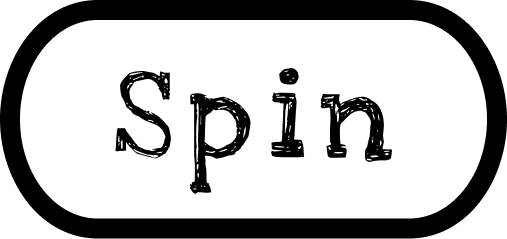
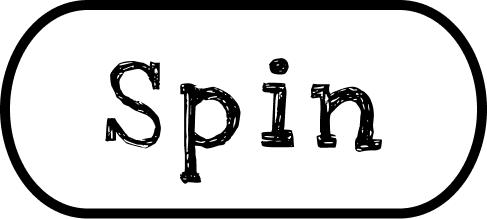
feat - proper scaling of the images depending on image size

diff --git a/src/scenes/Game.ts b/src/scenes/Game.ts
@@ -27,11 +27,12 @@ export class Game extends Phaser.Scene {
     super({ key: "Game", active: true });
   }
 
-  preload() {
+  public preload(): void {
     this.load.image("background", "assets/bg.png");
     this.load.image("spinButton", "assets/SpinButton_01.png");
     this.load.image("spinButtonPressed", "assets/SpinButton_01_Pressed.png");
 
+    
     SYMBOLS.forEach((symbol) => {
       this.load.image(symbol, `assets/symbol/${symbol}.png`);
       this.load.image(
@@ -40,7 +41,7 @@ export class Game extends Phaser.Scene {
       );
     });
   }
-  create() {
+  public create(): void {
     const { width, height } = this.cameras.main;
 
     const background = this.add.image(width / 2, height / 2, "background");
@@ -49,54 +50,7 @@ export class Game extends Phaser.Scene {
     this.createReels(width, height);
     this.createUiElements(width, height);
   }
-  private createUiElements(width: number, height: number) {
-    this.winText = this.add
-      .text(width / 2, 20, "", { fontSize: "48px", color: "#000" })
-      .setOrigin(0.5)
-      .setDepth(1000);
 
-    this.spinButton = this.add
-      .image(width / 2, height / 2, "spinButton")
-      .setInteractive({ useHandCursor: true })
-      .on("pointerdown", () => {
-        this.spinButton.setTexture("spinButtonPressed");
-      })
-      .on("pointerup", () => {
-        this.spinButton.setTexture("spinButton");
-        this.spinReels();
-      })
-      .on("pointerout", () => {
-        this.spinButton.setTexture("spinButton");
-      });
-  }
-  private createReels(width: number, height: number) {
-    const totalReelWidth =
-      REELS_COLUMNS * IMAGE_WIDTH + (REELS_COLUMNS - 1) * H_GAP;
-    const totalReelHeight =
-      REELS_ROWS * IMAGE_HEIGHT + (REELS_ROWS - 1) * V_GAP;
-    const startX = (width - totalReelWidth) / 2 + IMAGE_WIDTH / 2;
-    const startY = (height - totalReelHeight) / 2 + IMAGE_HEIGHT / 2;
-
-    for (let col = 0; col < REELS_COLUMNS; col++) {
-      const initialSymbols: string[] = [];
-      for (let row = 0; row < REELS_ROWS; row++) {
-        initialSymbols.push(getRandomWeightedSymbol());
-      }
-      const reelX = startX + col * (IMAGE_WIDTH + H_GAP);
-      const reel = new Reel(
-        this,
-        col,
-        reelX,
-        startY,
-        IMAGE_WIDTH,
-        IMAGE_HEIGHT,
-        V_GAP,
-        REELS_ROWS,
-        initialSymbols
-      );
-      this.reels.push(reel);
-    }
-  }
   private spinReels(): void {
     this.animateSpinButton(0, 500);
 
@@ -123,9 +77,62 @@ export class Game extends Phaser.Scene {
       await Promise.all(spinPromises);
 
       this.evaluateWin();
+
       this.isSpinning = false;
       this.animateSpinButton(1, 250);
     });
+  }
+  private createUiElements(width: number, height: number): void {
+    this.winText = this.add
+      .text(width / 2, 25, "", {
+        fontSize: "48px",
+        fontStyle: "bold",
+        color: "#000",
+      })
+      .setOrigin(0.5)
+      .setDepth(1000);
+
+    this.spinButton = this.add
+      .image(width / 2, height / 2, "spinButton")
+      .setInteractive({ useHandCursor: true })
+      .on("pointerdown", () => {
+        this.spinButton.setTexture("spinButtonPressed");
+      })
+      .on("pointerup", () => {
+        this.spinButton.setTexture("spinButton");
+        this.spinReels();
+      })
+      .on("pointerout", () => {
+        this.spinButton.setTexture("spinButton");
+      });
+  }
+  private createReels(width: number, height: number): void {
+    const totalReelWidth =
+      REELS_COLUMNS * IMAGE_WIDTH + (REELS_COLUMNS - 1) * H_GAP;
+    const totalReelHeight =
+      REELS_ROWS * IMAGE_HEIGHT + (REELS_ROWS - 1) * V_GAP;
+    const startX = (width - totalReelWidth) / 2 + IMAGE_WIDTH / 2;
+    const startY = (height - totalReelHeight) / 2 + IMAGE_HEIGHT / 2;
+
+    for (let col = 0; col < REELS_COLUMNS; col++) {
+      const initialSymbols: string[] = [];
+      for (let row = 0; row < REELS_ROWS; row++) {
+        initialSymbols.push(getRandomWeightedSymbol());
+      }
+      const reelX = startX + col * (IMAGE_WIDTH + H_GAP);
+      const reel = new Reel(
+        this,
+        col,
+        reelX,
+        startY,
+        IMAGE_WIDTH,
+        IMAGE_HEIGHT,
+        V_GAP,
+        REELS_ROWS,
+        initialSymbols
+      );
+      this.reels.push(reel);
+    }
   }
   private randomizeSymbols(): void {
     this.reels.forEach((reel) => {
@@ -154,9 +161,9 @@ export class Game extends Phaser.Scene {
         this.reels[i].setImageAt(WINNING_ROW, firstSymbol + "_connect");
       }
       const payout = PAY_TABLE[firstSymbol];
-      this.winText.setText(`You Win: ${payout} Coins!`);
+      this.winText.setText(`You Win: ${payout} Coins! :D`);
     } else {
-      this.winText.setText("Sorry, No Win ... ");
+      this.winText.setText("Sorry, No Win. :(");
     }
   }
   private animateSpinButton(alpha: number, durationInMs: number): void {

diff --git a/src/scenes/components/Reel.ts b/src/scenes/components/Reel.ts
@@ -1,4 +1,3 @@
-
 export class Reel {
   private images: Phaser.GameObjects.Image[] = [];
   private initialYs: number[] = [];
@@ -17,7 +16,9 @@ export class Reel {
     for (let row = 0; row < rowCount; row++) {
       const symbol = initialSymbols[row];
       const y = startY + row * (this.imageHeight + this.vGap);
-      const img = this.scene.add.image(this.x, y, symbol);
+      const img = this.scene.add
+        .image(this.x, y, symbol)
+        .setDisplaySize(this.imageWidth, this.imageHeight);
       this.images.push(img);
       this.initialYs.push(y);
     }
@@ -27,7 +28,11 @@ export class Reel {
    * Spins this reel with a smooth rolling animation.
    * Returns a promise that resolves when the reel finishes spinning.
    */
-  public spin(spinDuration: number, tweenDuration: number, rollDistance: number): Promise<void> {
+  public spin(
+    spinDuration: number,
+    tweenDuration: number,
+    rollDistance: number
+  ): Promise<void> {
     return new Promise((resolve) => {
       let iterations = Math.floor(spinDuration / tweenDuration);
 
@@ -75,18 +80,12 @@ export class Reel {
     });
   }
 
-  /**
-   * Update the symbol for the given row in this reel.
-   */
   public updateSymbol(rowIndex: number, symbol: string) {
     if (rowIndex < this.images.length) {
       this.images[rowIndex].setTexture(symbol);
     }
   }
 
-  /**
-   * Replace the symbol at the given row with a new texture (useful for win effects).
-   */
   public setImageAt(rowIndex: number, texture: string) {
     this.images.sort((a, b) => a.y - b.y);
     if (rowIndex < this.images.length) {
@@ -94,9 +93,6 @@ export class Reel {
     }
   }
 
-  /**
-   * Get the image object at the specified row.
-   */
   public getImageAt(rowIndex: number): Phaser.GameObjects.Image {
     this.images.sort((a, b) => a.y - b.y);
     return this.images[rowIndex];

diff --git a/src/main.ts b/src/main.ts
@@ -6,7 +6,7 @@ const config: Types.Core.GameConfig = {
     width: window.innerWidth,
     height: window.innerHeight,
     scale: {
-        mode: Scale.RESIZE,      // Automatically resizes to fit the screen
+        mode: Scale.RESIZE,     
         autoCenter: Scale.CENTER_BOTH
     },
     scene: [
